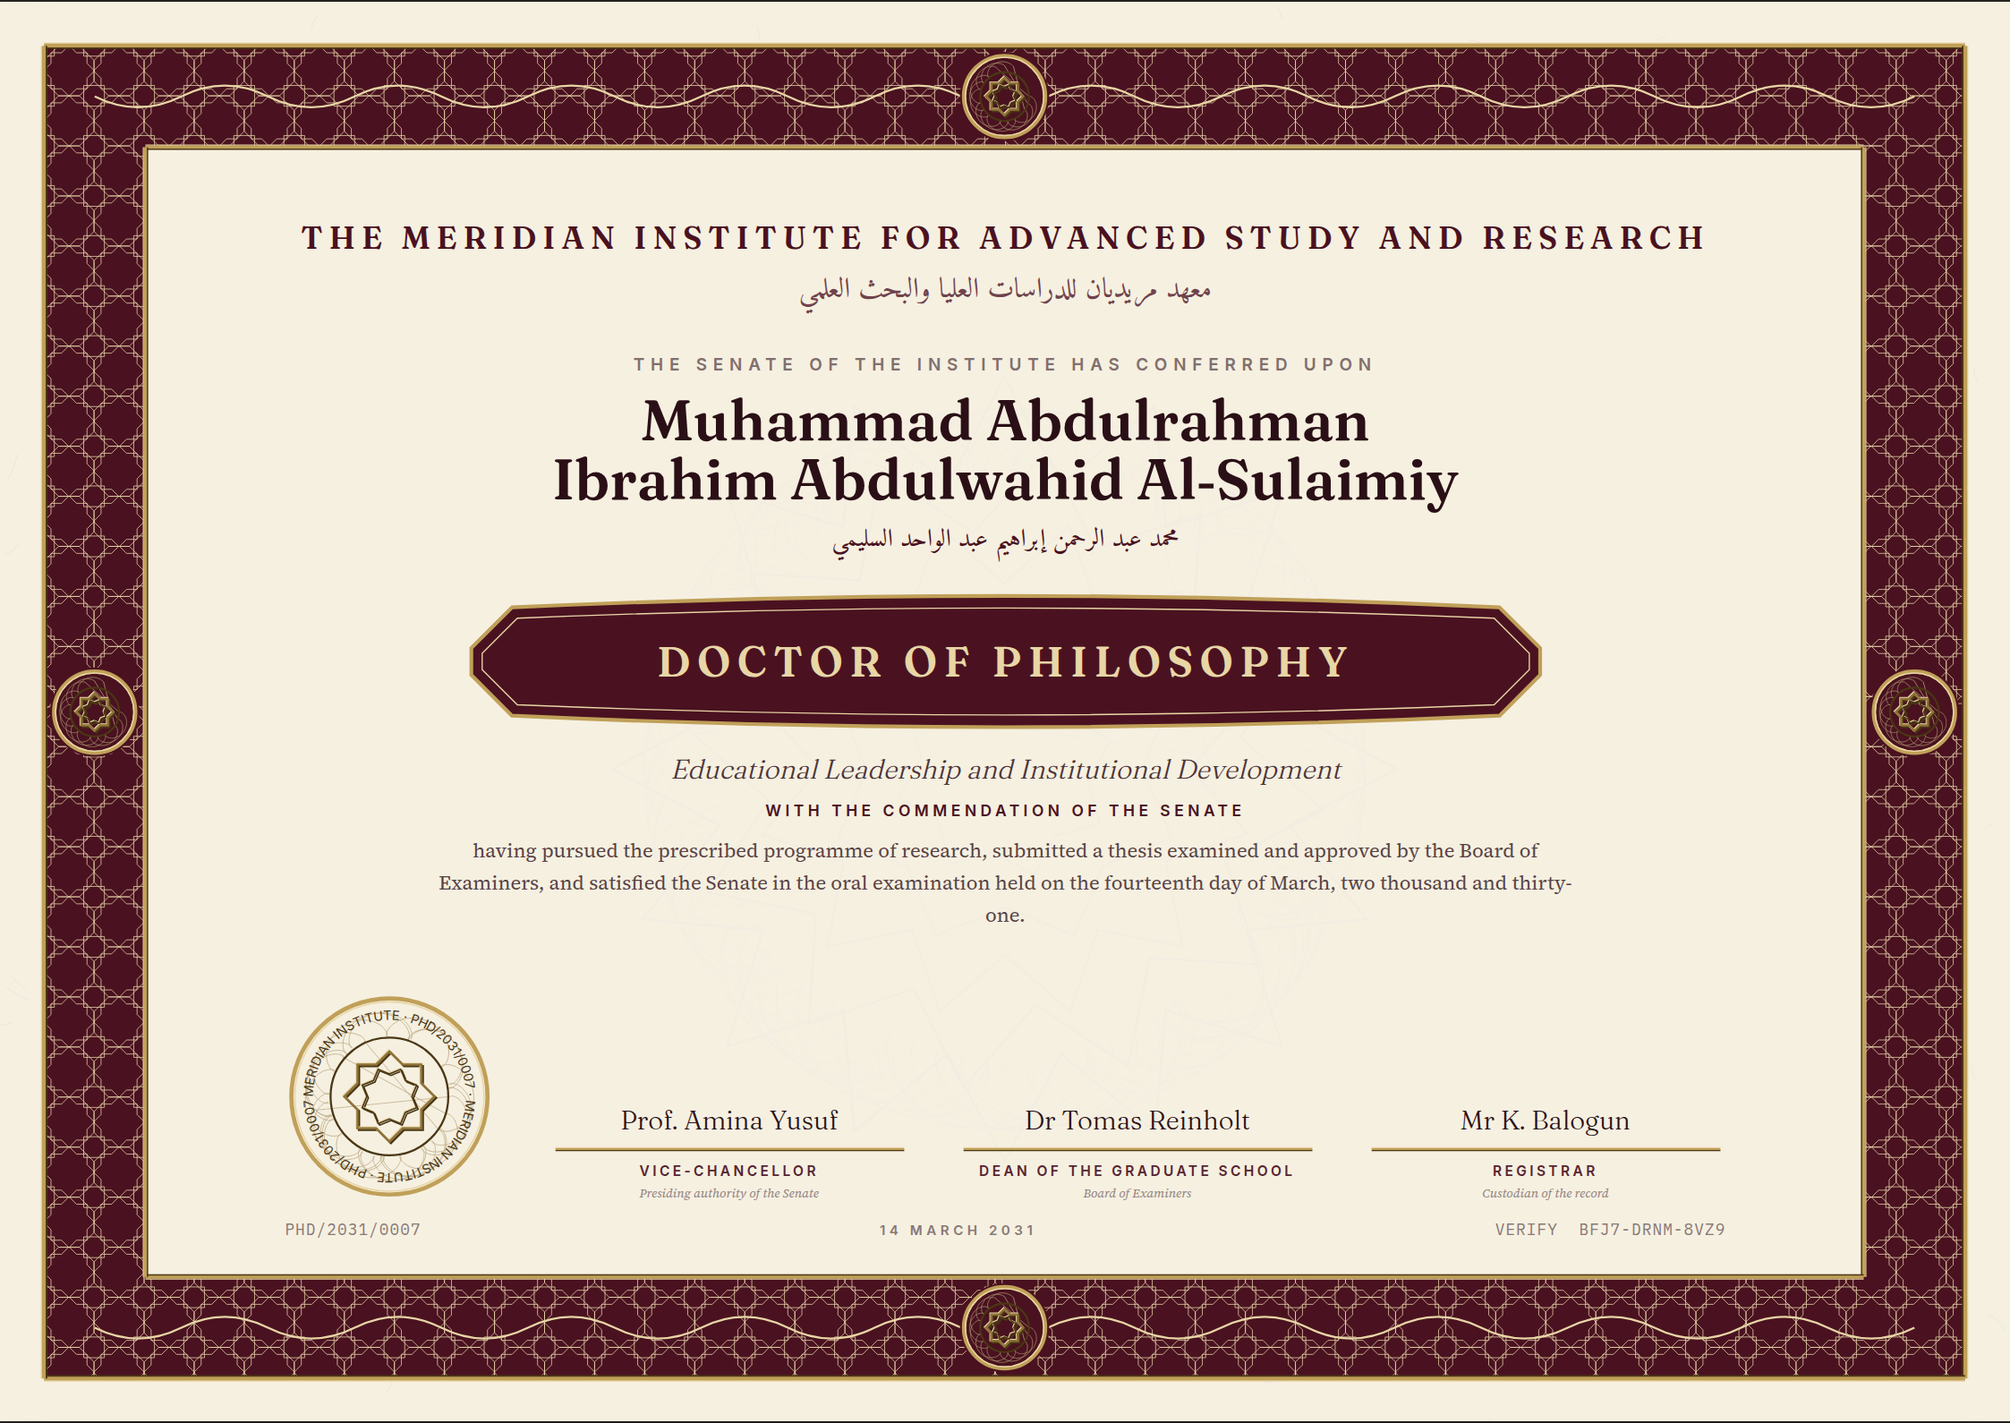
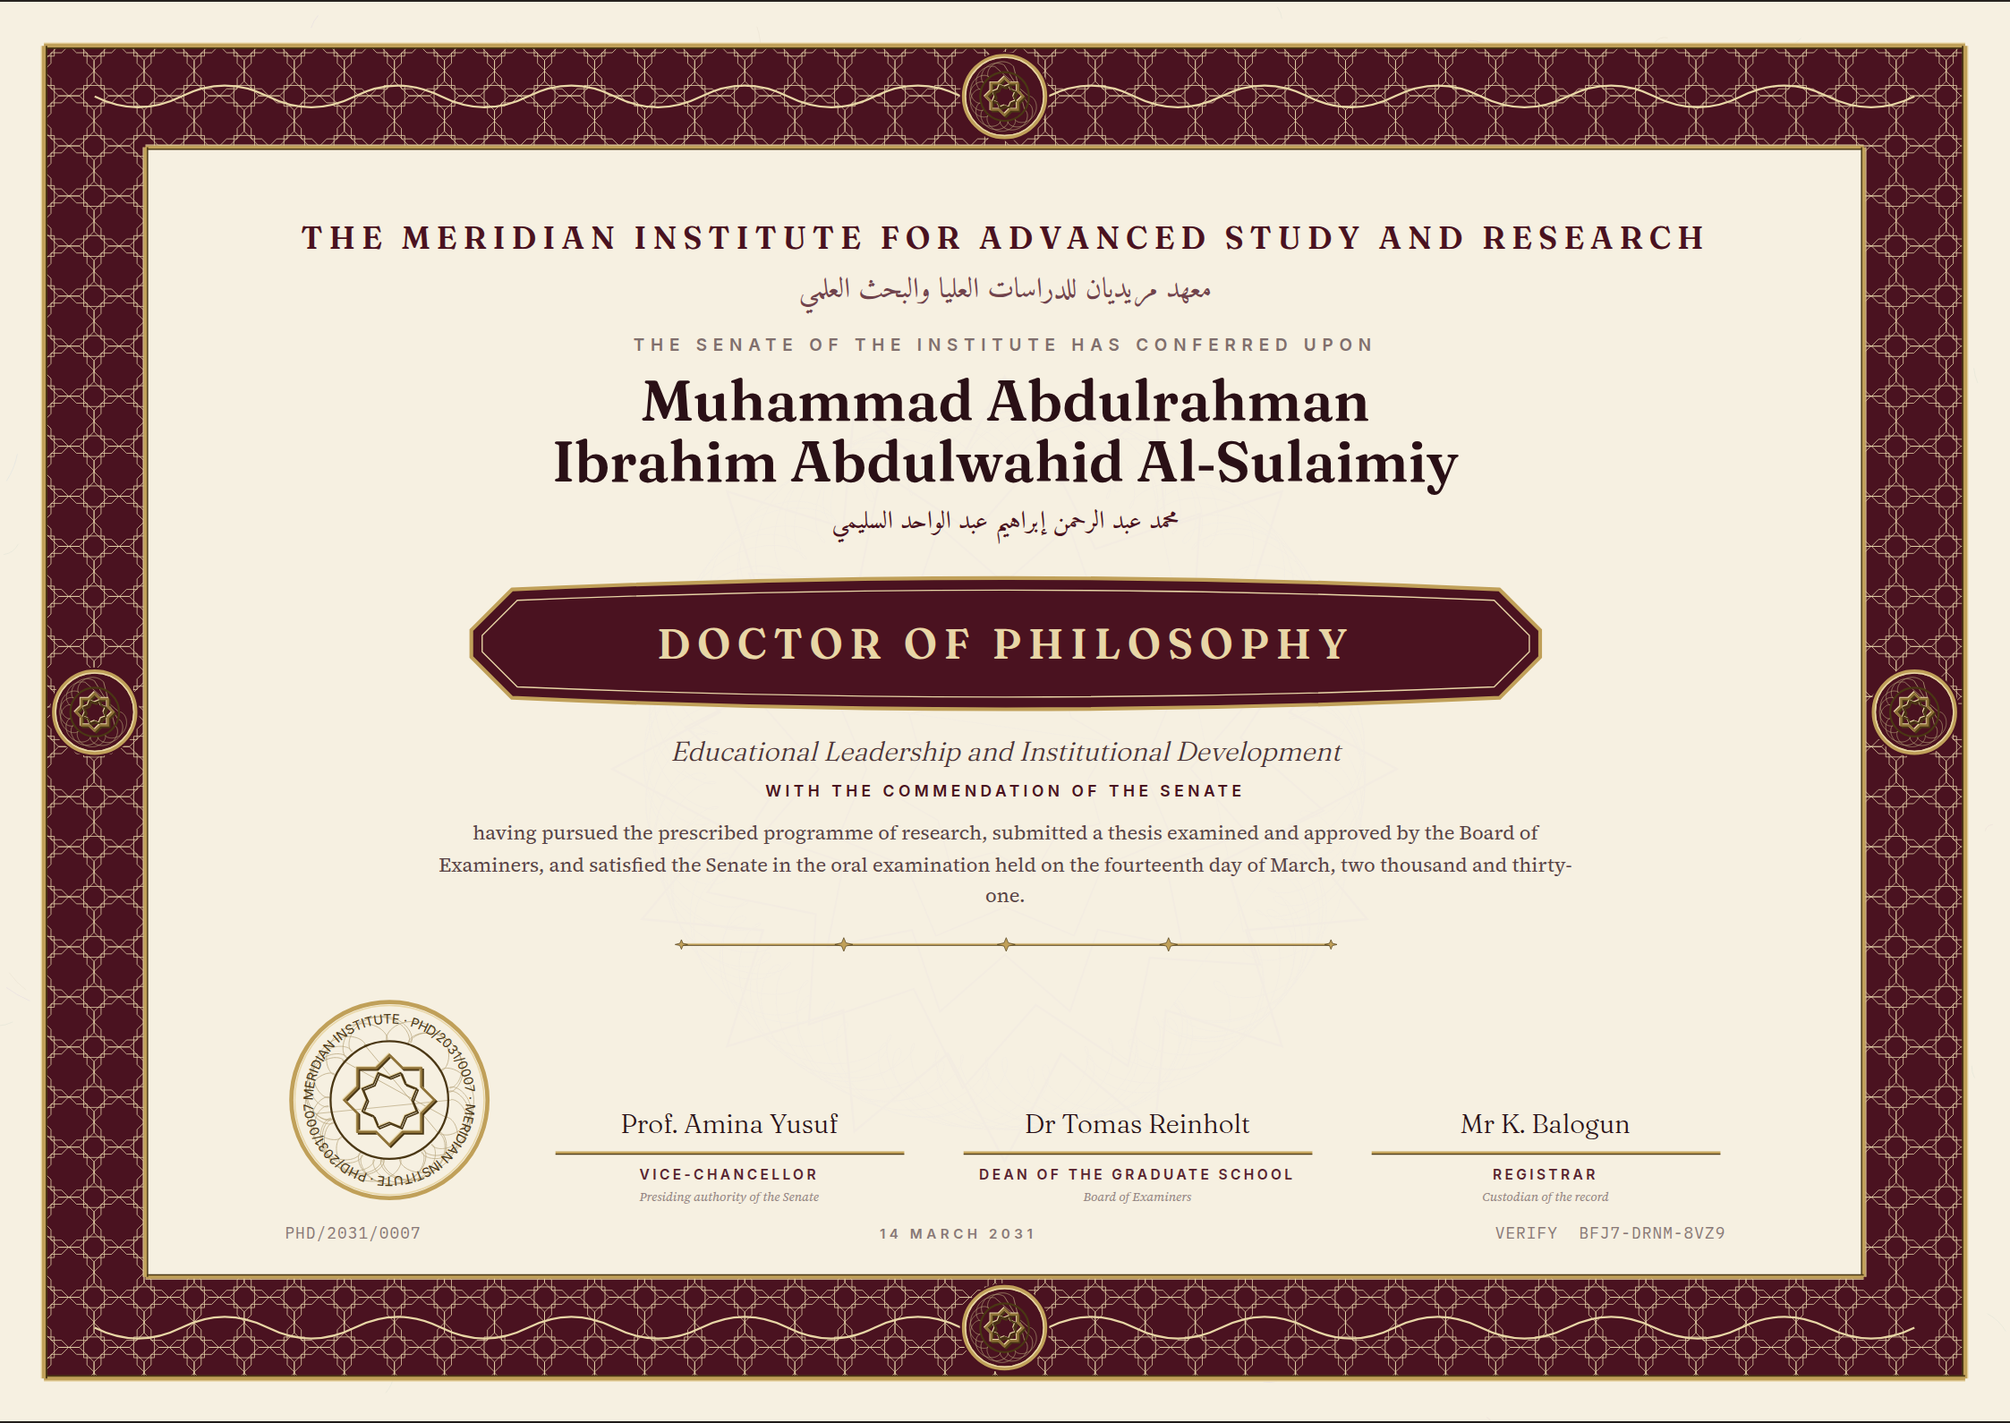
Refine the strongest three, and make the signature lattice actually dissolve
The crest was wrong twice and both failures were only visible in a render. A
stroked palmette read as a tent pitched on the frame; a filled one, with the
shoulders pulled in to fix it, read as a traffic cone — a solid triangle of
metal is a triangle of metal whatever its control points say. Rebuilt as the
form the reference actually uses: a struck medallion straddling the frame's
rule with two low scroll wings running out to lozenge stops. Nothing in it is a
large filled silhouette, which is why it survives being looked at from a metre.

12's dissolving lattice — the one construction that could become unmistakably
EdirasX — was not dissolving. The four density bands sat too close in value and
read as one even field. Widening the range to 1.00 / 0.46 / 0.20 / 0.085 across
cells of 6.5 to 34mm made the concept appear.

The ceremonial pause between the conferring statement and the execution row is
the largest void on the sheet and it is deliberate, but left blank it reads as
a layout that ran out of content. It now carries a lozenge-stopped rule placed
in the flow between two flexible spacers, so it centres itself in whatever
space the content leaves rather than being pinned to a millimetre the content
is free to move past.

Also: 01's authority lines were landing on the architrave and its verification
line on the navy register; 02's English masthead wrapped while its Arabic did
not, and the imbalance was the first thing the eye caught.
[…]

diff --git a/tools/design/concepts.py b/tools/design/concepts.py
@@ -237,7 +237,29 @@ def execution(metal: Metal, ink: str, *, ground: str | None = None,
     return f'<div class="exec">{order}</div>'
 
 
+def divider(metal: Metal, *, width: float = 46.0, stops: int = 4) -> str:
+    """A spreader rule placed between two spacers — the ceremonial pause, given
+    a reason to exist.
+
+    The gap between the conferring statement and the execution row is the
+    largest void on a ceremonial sheet and it is deliberate: it is the pause
+    before the signatures. Left entirely blank it reads as a layout that ran out
+    of content. A lozenge-stopped rule floating in the middle of it reads as
+    what it is.
+
+    In the flow, between two flexible spacers, so it stays centred in the void
+    whatever the recipient's name does above it.
+    """
+    return (
+        f'<svg class="divider" style="width:{width}%" viewBox="0 0 100 4"'
+        ' preserveAspectRatio="none">'
+        + arch.spreader(2.0, 1.0, 99.0, metal=metal, stops=stops)
+        + "</svg>"
+    )
+
+
 EXEC_CSS = """
+.divider { display: block; flex: none; height: 3mm; }
 .exec { display: flex; align-items: flex-end; gap: 8mm; width: 100%; flex: none; }
 .sigrow { flex: 1 1 auto; display: flex; align-items: flex-end; gap: 7mm; }
 .sealbox { flex: none; width: 31mm; }
@@ -318,17 +340,16 @@ def c01(c: Concept) -> str:
                                     mass=geo.blend(p.ink, p.accent, 0.55), metal=m, ink=p.ink)
     layers += arch.mandala(SHEET_W / 2, SHEET_H * 0.50, 62, ink=p.accent,
                            strength=0.025, rings=5)
-    layers += arch.cresting(SHEET_W / 2, inner.y + 2.6, 27, 11.0, metal=m)
+    layers += arch.cresting(SHEET_W / 2, inner.y, 62, 13.0, metal=m)
     layers += arch.spreader(inner.y + 15.0, inner.x + 16, SHEET_W / 2 - 26, metal=m)
     layers += arch.spreader(inner.y + 15.0, SHEET_W / 2 + 26, inner.x + inner.w - 16, metal=m)
-    layers += arch.medallion(SHEET_W / 2, inner.y + 15.0, 11.5, metal=m, ink=p.ink)
     layers += geo.microtext_ring(sheet.inset(8.4), identifier="c01",
                                  text=f"{INSTITUTION.upper()} · {SERIAL} · ",
                                  ink=p.ink, size=0.58, strength=0.26)
 
     name_size = fit(RECIPIENT, 196, cap=13.0, floor=8.6)
     css = EXEC_CSS + f"""
-.field {{ left: 36mm; right: 36mm; top: 48mm; bottom: 30mm; align-items: center;
+.field {{ left: 36mm; right: 36mm; top: 47mm; bottom: 39mm; align-items: center;
   text-align: center; }}
 .inst {{ font-size: 5.0mm; letter-spacing: 0.16em; color: {p.accent};
   font-weight: 600; text-transform: uppercase; flex: none; }}
@@ -365,6 +386,8 @@ def c01(c: Concept) -> str:
   <div class="disp study">{STUDY}</div>
   <div class="lab dist">{DISTINCTION}</div>
   <div class="stmt">{STATEMENT}</div>
+  <div class="spacer"></div>
+  {divider(m)}
   <div class="spacer"></div>
   {execution(m, p.ink)}
   {verify_band(ink=p.ink)}
@@ -424,8 +447,8 @@ def c02(c: Concept) -> str:
   width: 100%; flex: none; gap: 6mm; }}
 .crown .ar {{ font-size: 4.7mm; font-weight: 700; color: {p.accent};
   white-space: nowrap; }}
-.crown .en {{ font-size: 3.4mm; letter-spacing: 0.13em; text-transform: uppercase;
-  color: {p.accent}; font-weight: 600; text-align: left; line-height: 1.35; }}
+.crown .en {{ font-size: 3.0mm; letter-spacing: 0.12em; text-transform: uppercase;
+  color: {p.accent}; font-weight: 600; text-align: left; white-space: nowrap; }}
 .conf {{ font-size: 2.5mm; letter-spacing: 0.36em; color: {geo.tint(p.ink, 0.60)};
   flex: none; }}
 .name {{ font-size: {mm(name_size)}; line-height: 1.06; font-weight: 700;
@@ -462,6 +485,8 @@ def c02(c: Concept) -> str:
   </div>
   <div class="disp study">{STUDY}</div>
   <div class="stmt">{STATEMENT}</div>
+  <div class="spacer"></div>
+  {divider(m)}
   <div class="spacer"></div>
   {execution(m, p.ink)}
   {verify_band(ink=p.ink)}
@@ -559,6 +584,8 @@ def c03(c: Concept) -> str:
   <div class="lab dist">{DISTINCTION}</div>
   <div class="stmt">{STATEMENT}</div>
   <div class="spacer"></div>
+  {divider(m)}
+  <div class="spacer"></div>
   {execution(m, p.ink)}
   {verify_band(ink=p.ink)}
 </div>
@@ -649,6 +676,8 @@ def c04(c: Concept) -> str:
   <div class="disp deg">{DEGREE}</div>
   <div class="disp study">{STUDY}</div>
   <div class="stmt">{STATEMENT}</div>
+  <div class="spacer"></div>
+  {divider(m)}
   <div class="spacer"></div>
   {execution(m, p.ink)}
   {verify_band(ink=p.ink)}
@@ -746,6 +775,8 @@ def c05(c: Concept) -> str:
   <div class="lab dist">{DISTINCTION}</div>
   <div class="stmt">{STATEMENT}</div>
   <div class="spacer"></div>
+  {divider(m)}
+  <div class="spacer"></div>
   {execution(m, p.ink)}
   {verify_band(ink=p.ink)}
 </div>
@@ -827,6 +858,8 @@ def c06(c: Concept) -> str:
   <div class="disp deg">{DEGREE}</div>
   <div class="disp study">{STUDY}</div>
   <div class="stmt">{STATEMENT}</div>
+  <div class="spacer"></div>
+  {divider(m)}
   <div class="spacer"></div>
   {execution(m, p.ink)}
   {verify_band(ink=p.ink)}
@@ -917,6 +950,8 @@ def c07(c: Concept) -> str:
   <div class="disp study">{STUDY}</div>
   <div class="stmt">{STATEMENT}</div>
   <div class="spacer"></div>
+  {divider(m)}
+  <div class="spacer"></div>
   {execution(m, p.ink)}
   {verify_band(ink=p.ink)}
 </div>
@@ -1004,6 +1039,8 @@ def c08(c: Concept) -> str:
   <div class="disp deg">{DEGREE}</div>
   <div class="disp study">{STUDY}</div>
   <div class="stmt">{STATEMENT}</div>
+  <div class="spacer"></div>
+  {divider(m)}
   <div class="spacer"></div>
   {execution(m, p.ink)}
   {verify_band(ink=p.ink)}
@@ -1098,6 +1135,8 @@ def c09(c: Concept) -> str:
   <div class="lab dist">{DISTINCTION}</div>
   <div class="stmt">{STATEMENT}</div>
   <div class="spacer"></div>
+  {divider(m)}
+  <div class="spacer"></div>
   {execution(m, p.ink)}
   {verify_band(ink=p.ink)}
 </div>
@@ -1151,7 +1190,7 @@ def c10(c: Concept) -> str:
     )
     layers += arch.mandala(SHEET_W / 2, SHEET_H * 0.50, 46, ink=p.accent,
                            strength=0.025, rings=5)
-    layers += arch.cresting(SHEET_W / 2, plaque.y - 1.0, 25, 10.0, metal=m)
+    layers += arch.cresting(SHEET_W / 2, plaque.y, 54, 11.5, metal=m)
     layers += geo.microtext_ring(sheet.inset(8.4), identifier="c10",
                                  text=f"{SERIAL} · {CODE} · ", ink=m.core,
                                  size=0.56, strength=1.0)
@@ -1193,6 +1232,8 @@ def c10(c: Concept) -> str:
   <div class="disp deg">{DEGREE}</div>
   <div class="disp study">{STUDY}</div>
   <div class="stmt">{STATEMENT}</div>
+  <div class="spacer"></div>
+  {divider(m)}
   <div class="spacer"></div>
   {execution(m, p.ink)}
 </div>
@@ -1238,7 +1279,7 @@ def c11(c: Concept) -> str:
                                       metal=m, nodes=3)
     layers += arch.mandala(SHEET_W / 2, SHEET_H * 0.52, 52, ink=p.accent,
                            strength=0.025, rings=5)
-    layers += arch.cresting(SHEET_W / 2, inner.y + 0.5, 26, 10.6, metal=m)
+    layers += arch.cresting(SHEET_W / 2, inner.y, 58, 12.5, metal=m)
     layers += geo.microtext_ring(sheet.inset(8.4), identifier="c11",
                                  text=f"{INSTITUTION.upper()} · {SERIAL} · ",
                                  ink=m.highlight, size=0.56, strength=0.8)
@@ -1294,6 +1335,8 @@ def c11(c: Concept) -> str:
   <div class="lab dist">{DISTINCTION}</div>
   <div class="stmt">{STATEMENT}</div>
   <div class="spacer"></div>
+  {divider(m)}
+  <div class="spacer"></div>
   {execution(m, p.ink)}
   {verify_band(ink=p.ink)}
 </div>
@@ -1321,10 +1364,10 @@ def c12(c: Concept) -> str:
     # ink than the one outside it. This is the concept — a frame that does not
     # end, it dissolves.
     for inset, cell, strength, width in (
-        (5.0, 7.0, 1.00, 0.13),
-        (16.0, 11.0, 0.62, 0.11),
-        (28.0, 17.0, 0.34, 0.09),
-        (42.0, 26.0, 0.16, 0.08),
+        (5.0, 6.5, 1.00, 0.20),
+        (15.0, 11.5, 0.46, 0.13),
+        (27.0, 20.0, 0.20, 0.09),
+        (41.0, 34.0, 0.085, 0.075),
     ):
         layers += arch.tessellation_field(
             sheet.inset(inset), cell=cell, ink=m.core, strength=strength,
@@ -1348,7 +1391,6 @@ def c12(c: Concept) -> str:
         + geo.khatam(SHEET_W / 2, 32.0, 4.0, ink=m2.core, width=0.30)
     )
     layers += emboss(mark, depth=0.24, light=m.highlight, dark=m.shadow)
-    layers += arch.spreader(SHEET_H * 0.735, 52, SHEET_W - 52, metal=m2, stops=6)
     layers += geo.microtext_ring(sheet.inset(8.4), identifier="c12",
                                  text=f"EDIRASX · {SERIAL} · {CODE} · ",
                                  ink=p.ink, size=0.56, strength=0.32)
@@ -1400,6 +1442,8 @@ def c12(c: Concept) -> str:
   <div class="disp deg">{DEGREE}</div>
   <div class="disp study">{STUDY}</div>
   <div class="stmt">{STATEMENT}</div>
+  <div class="spacer"></div>
+  {divider(m)}
   <div class="spacer"></div>
   {execution(m, p.ink)}
   <div class="credential">

diff --git a/apps/edtechx-api/app/modules/design/architecture.py b/apps/edtechx-api/app/modules/design/architecture.py
@@ -502,40 +502,40 @@ def legend_ring(cx: float, cy: float, radius: float, *, metal: Metal,
 
 def cresting(cx: float, y: float, width: float, height: float, *,
              metal: Metal) -> str:
-    """The ornament that sits above a frame and breaks its top line.
+    """The ornament that crowns a frame on its axis: a medallion with wings.
 
-    A palmette: a central lobe rising to a finial, two counter-scrolled wings,
-    and a base rule. It exists to stop the frame's top edge from being the
-    highest thing on the sheet — which is the difference between a document that
-    is framed and one that is *crowned*.
+    Two silhouettes were tried and both failed by eye, which is the reason this
+    docstring names the form precisely. A stroked palmette read as a tent
+    pitched on the frame. A *filled* palmette read as an anvil, and then — with
+    the shoulders pulled in — as a traffic cone: a solid triangle of metal is a
+    triangle of metal whatever its control points say.
+
+    What the finest plates actually do at this position is different in kind. A
+    small struck medallion sits **on** the frame's rule, straddling it, and two
+    low scroll wings run outward along the rule and stop in lozenges. The
+    medallion is the event; the wings tie it to the architecture; the rule
+    passes behind. There is no large filled silhouette anywhere in it, which is
+    why it does not collapse into a shape at a distance.
     """
     half = width / 2
-    # Filled, not stroked. A stroked outline at this size reads as a tent
-    # pitched on the frame; a palmette is a *shape*, and its silhouette against
-    # the paper is the whole effect.
-    body = (
-        f"M{cx - half:.2f} {y:.2f} "
-        f"C{cx - half * 0.72:.2f} {y - height * 0.14:.2f} "
-        f"{cx - half * 0.58:.2f} {y - height * 0.46:.2f} "
-        f"{cx - half * 0.34:.2f} {y - height * 0.40:.2f} "
-        f"C{cx - half * 0.22:.2f} {y - height * 0.38:.2f} "
-        f"{cx - half * 0.16:.2f} {y - height * 0.72:.2f} {cx:.2f} {y - height:.2f} "
-        f"C{cx + half * 0.16:.2f} {y - height * 0.72:.2f} "
-        f"{cx + half * 0.22:.2f} {y - height * 0.38:.2f} "
-        f"{cx + half * 0.34:.2f} {y - height * 0.40:.2f} "
-        f"C{cx + half * 0.58:.2f} {y - height * 0.46:.2f} "
-        f"{cx + half * 0.72:.2f} {y - height * 0.14:.2f} {cx + half:.2f} {y:.2f} Z"
-    )
-    return (
-        f'<path d="{body}" fill="{metal.face}" stroke="{metal.shadow}"'
-        ' stroke-width="0.22" stroke-linejoin="round"/>'
-        f'<path d="M{cx:.2f} {y - height * 0.10:.2f} V{y - height * 0.82:.2f}"'
-        f' stroke="{metal.shadow}" stroke-width="0.18"/>'
-        + geo.khatam(cx, y - height * 1.24, height * 0.26, ink=metal.face,
-                     width=0.36)
-        + engraved_metal_rule(cx - half, y, cx + half, y, metal=metal,
-                              weight=0.42)
-    )
+    radius = height * 0.62
+    out = [engraved_metal_rule(cx - half, y, cx + half, y, metal=metal,
+                               weight=0.42)]
+    for sign in (-1, 1):
+        start = cx + sign * radius * 1.05
+        end = cx + sign * half
+        out.append(
+            f'<path d="M{start:.2f} {y:.2f} '
+            f'Q{(start + end) / 2:.2f} {y - height * 0.62:.2f} {end:.2f} {y:.2f}"'
+            f' fill="none" stroke="{metal.face}" stroke-width="0.42"/>'
+            f'<path d="M{start:.2f} {y:.2f} '
+            f'Q{(start + end) / 2:.2f} {y - height * 0.40:.2f} {end:.2f} {y:.2f}"'
+            f' fill="none" stroke="{metal.shadow}" stroke-width="0.16"/>'
+            f'<path d="{geo.star_polygon(end, y, 4, 1.35, 0.45)}"'
+            f' fill="{metal.face}" stroke="{metal.shadow}" stroke-width="0.10"/>'
+        )
+    out.append(medallion(cx, y, radius, metal=metal, ink=metal.shadow))
+    return "".join(out)
 
 
 def spreader(y: float, x1: float, x2: float, *, metal: Metal,

diff --git a/docs/edtechx/design/EDTECHX_CONCEPT_BOARD.md b/docs/edtechx/design/EDTECHX_CONCEPT_BOARD.md
@@ -99,14 +99,17 @@ and royal gold. It reads as a doorcase, which is exactly the ambition.
 
 ### The rest, honestly
 
-**4 · 12 EdirasX Signature** — strategically the most important and not yet the
-best executed. One construction for frame and field: the khatam lattice
-dissolving from a 7mm cell at the trim to a 26mm cell at the centre, so the
-frame does not end, it thins. Two metals, and the credential band designed as a
-visible architectural register rather than a footnote. *The dissolve does not
-yet read* — the four density bands are too close in value, and at arm's length
-it looks like one even lattice. This is the one to fix, because it is the one
-that could become unmistakably EdirasX.
+**4 · 12 EdirasX Signature — and after the refinement pass, arguably third.**
+One construction for frame and field: the khatam lattice dissolving from a
+6.5mm cell at full strength at the trim to a 34mm cell at 8.5% at the centre, so
+the frame does not end, it thins. Two metals, a blind-embossed institutional
+mark on the axis, and the credential band designed as a visible architectural
+register rather than a footnote. In the first pass the dissolve did not read —
+the four density bands were too close in value and it looked like one even
+lattice. Widening the value range to 1.00 / 0.46 / 0.20 / 0.085 made the concept
+appear, and it is now the most *ownable* plate on the board: no other
+institution's certificate looks like this, and the construction is EdirasX's
+own.
 
 **5 · 08 Heritage Manuscript** — genuinely beautiful and the only plate where
 Arabic is the text and the Latin is the gloss. Parchment ground, an illuminated
@@ -162,6 +165,8 @@ Every one of these was invisible in the code and obvious in the render.
 | The crest read as a circus tent | 01, 10, 11 | A filled palmette at 26 × 11mm rather than a stroked outline at 42 × 7mm. |
 | Microtext sat 2.6mm from the trim, inside the knife | most | Moved to 8.4mm, outside the ±1.5mm cutting tolerance with margin. |
 | The ground mandala was legible as a figure at arm's length | all | Held at 2.5% above the paper. A field is noticed on the second look. |
+| The crest failed twice by eye: a stroked palmette read as a tent, a filled one as a traffic cone | 01, 10, 11 | Rebuilt as the form the reference actually uses — a struck medallion straddling the frame rule with two low scroll wings ending in lozenges. No large filled silhouette, so it does not collapse into a shape at a distance. |
+| The ceremonial pause between the statement and the execution row read as a layout that ran out of content | 01, 02, 11 | A lozenge-stopped rule placed *in the flow* between two flexible spacers, so it centres itself in whatever space the content leaves. |
 
 ---
 
